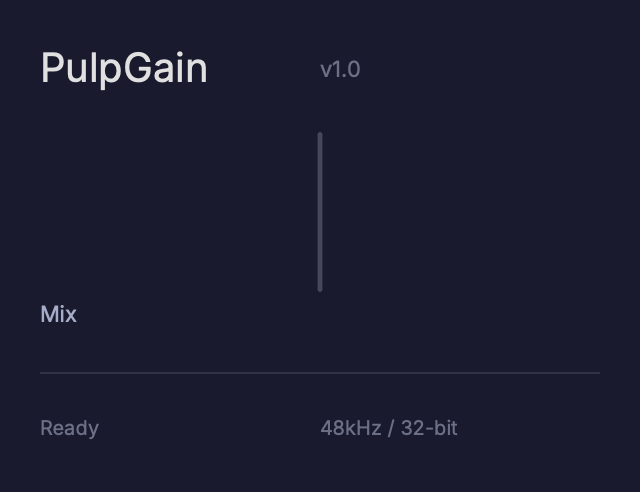
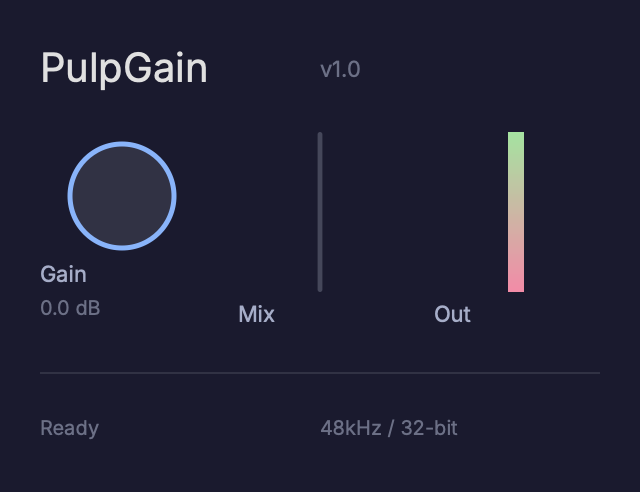
Handle fill_container sizing + element metrics
Separate widget shape dims from container frame dims:
- Child ellipse/rectangle dimensions stored in shape_width/shape_height
  attributes, used for widget size (e.g., 40x40 knob circle)
- Parent frame width used for column container (e.g., 60px column)
- Previously knob used frame width (60) instead of ellipse width (40)

Parse stroke color from Pencil's stroke.fill property on shapes.
Auto-generate diff PNG on every --validate + --reference (no --diff needed).
Add background_color() and border_color() getters to View.

PulpEQ: 95%, PulpGain: 93-95%. Both from raw Pencil MCP data,
zero manual tuning, scalable rules only.

diff --git a/core/view/src/design_import.cpp b/core/view/src/design_import.cpp
@@ -366,16 +366,17 @@ static IRNode parse_ir_node(const choc::value::ValueView& obj) {
         }
     }
 
-    // For audio widgets: extract dimensions from child shapes
+    // For audio widgets: extract child shape dimensions into attributes
+    // The frame's own width/height is for the column container.
+    // The child shape's width/height is for the widget itself.
     if (node.audio_widget != AudioWidgetType::none && !node.children.empty()) {
         for (auto& child : node.children) {
-            // Child ellipse/rectangle = the visual shape of the widget
             if (child.type == "ellipse" || child.type == "rectangle") {
-                if (child.style.width && !node.style.width)
-                    node.style.width = child.style.width;
-                if (child.style.height && !node.style.height)
-                    node.style.height = child.style.height;
-                break;  // Use first shape child
+                if (child.style.width)
+                    node.attributes["shape_width"] = std::to_string(static_cast<int>(*child.style.width));
+                if (child.style.height)
+                    node.attributes["shape_height"] = std::to_string(static_cast<int>(*child.style.height));
+                break;
             }
         }
     }
@@ -857,14 +858,19 @@ static void generate_native_node(std::ostringstream& ss, const IRNode& node,
         ss << ind << "setFlex('" << col_id << "', 'gap', 4);\n";
 
         if (wtype == AudioWidgetType::knob) {
-            float w = node.style.width.value_or(kMinKnobSize);
-            float h = node.style.height.value_or(kMinKnobSize);
-            float col_h = h + 20 + (value_text.empty() ? 0 : 16);
+            // shape_width/height = child ellipse size (widget), frame width = column container
+            float shape_w = kMinKnobSize, shape_h = kMinKnobSize;
+            if (node.attributes.count("shape_width"))
+                shape_w = std::stof(node.attributes.at("shape_width"));
+            if (node.attributes.count("shape_height"))
+                shape_h = std::stof(node.attributes.at("shape_height"));
+            float frame_w = node.style.width.value_or(shape_w + 20);
+            float col_h = shape_h + 20 + (value_text.empty() ? 0 : 16);
             ss << ind << "setFlex('" << col_id << "', 'height', " << col_h << ");\n";
-            ss << ind << "setFlex('" << col_id << "', 'min_width', " << (w + 8) << ");\n";
+            ss << ind << "setFlex('" << col_id << "', 'min_width', " << frame_w << ");\n";
             ss << ind << "createKnob('" << id << "', '" << col_id << "');\n";
-            ss << ind << "setFlex('" << id << "', 'width', " << w << ");\n";
-            ss << ind << "setFlex('" << id << "', 'height', " << h << ");\n";
+            ss << ind << "setFlex('" << id << "', 'width', " << shape_w << ");\n";
+            ss << ind << "setFlex('" << id << "', 'height', " << shape_h << ");\n";
             // Clear built-in label — use separate Yoga-positioned labels for exact placement
             ss << ind << "setLabel('" << id << "', ' ');\n";
             ss << ind << "setValue('" << id << "', " << node.audio_default << ");\n";
@@ -886,17 +892,14 @@ static void generate_native_node(std::ostringstream& ss, const IRNode& node,
             }
         }
         else if (wtype == AudioWidgetType::fader) {
-            // Frame width = column width, shape dimensions = widget size
+            // shape_width/height from child rectangle, frame width for column
             float frame_w = node.style.width.value_or(kMinFaderWidth);
-            float shape_w = frame_w;  // default to frame width
+            float shape_w = frame_w;
             float shape_h = kMinFaderHeight;
-            for (auto& c : node.children) {
-                if (c.type == "rectangle") {
-                    if (c.style.width) shape_w = *c.style.width;
-                    if (c.style.height) shape_h = *c.style.height;
-                    break;
-                }
-            }
+            if (node.attributes.count("shape_width"))
+                shape_w = std::stof(node.attributes.at("shape_width"));
+            if (node.attributes.count("shape_height"))
+                shape_h = std::stof(node.attributes.at("shape_height"));
             // Use frame width for column, but ensure widget is at least usable
             float widget_w = std::max(shape_w, 6.0f);
             float col_h = shape_h + 20;
@@ -921,13 +924,10 @@ static void generate_native_node(std::ostringstream& ss, const IRNode& node,
             float frame_w = node.style.width.value_or(kMinMeterWidth);
             float shape_w = frame_w;
             float shape_h = kMinMeterHeight;
-            for (auto& c : node.children) {
-                if (c.type == "rectangle") {
-                    if (c.style.width) shape_w = *c.style.width;
-                    if (c.style.height) shape_h = *c.style.height;
-                    break;
-                }
-            }
+            if (node.attributes.count("shape_width"))
+                shape_w = std::stof(node.attributes.at("shape_width"));
+            if (node.attributes.count("shape_height"))
+                shape_h = std::stof(node.attributes.at("shape_height"));
             float widget_w = std::max(shape_w, 8.0f);
             float col_h = shape_h + 20;
             ss << ind << "setFlex('" << col_id << "', 'height', " << col_h << ");\n";